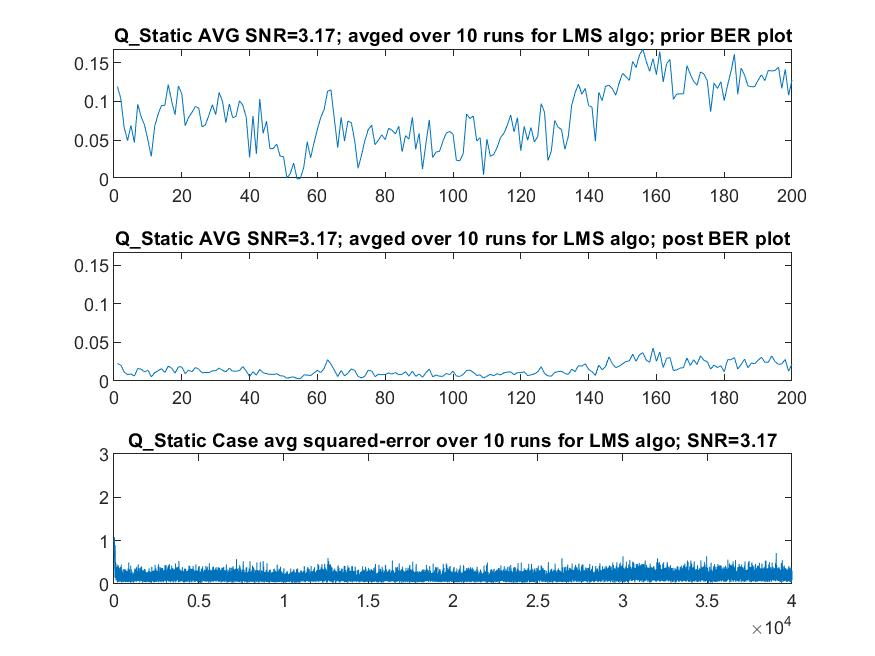
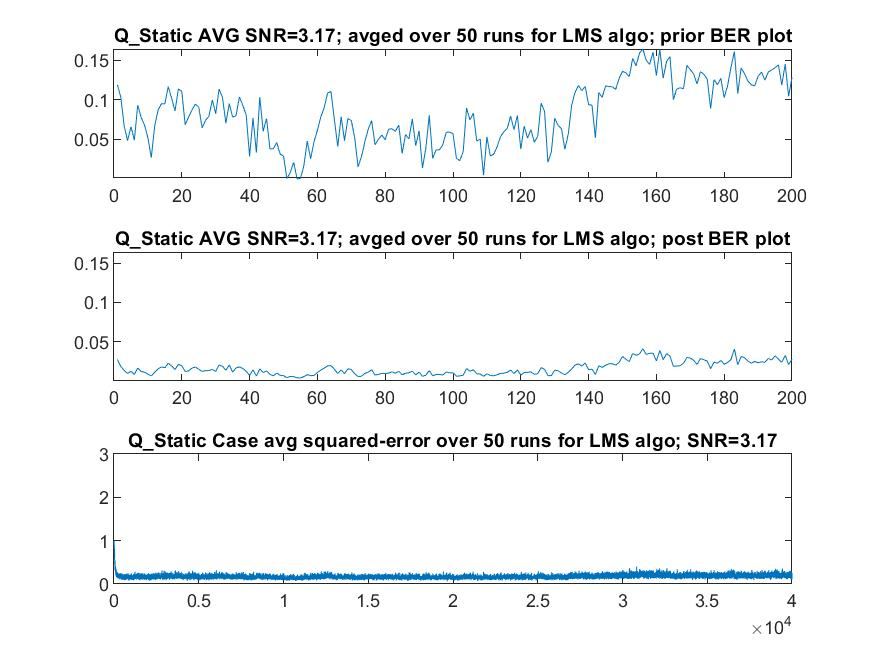
New branch for testing different parameter configs

diff --git a/PARAMS_NLMS_DFE.m b/PARAMS_NLMS_DFE.m
@@ -1,19 +1,19 @@
 function Params = PARAMS_NLMS_DFE(Params)
     % For Static case
     Params.Static.NLMS_DFE.Lfff = 20;
-    Params.Static.NLMS_DFE.Lfbf = 10;
+    Params.Static.NLMS_DFE.Lfbf = 20;
     Params.Static.NLMS_DFE.alpha = 0.1; 
     Params.Static.NLMS_DFE.epsilon = 1e-2;
     
     % For Q_Static case
     Params.Q_Static.NLMS_DFE.Lfff = 15;
-    Params.Q_Static.NLMS_DFE.Lfbf = 5;
+    Params.Q_Static.NLMS_DFE.Lfbf = 10;
     Params.Q_Static.NLMS_DFE.alpha = 0.02;
     Params.Q_Static.NLMS_DFE.epsilon = 2e-2;
     
     % For T_Varying case
-    Params.T_Varying.NLMS_DFE.Lfff = 10;
-    Params.T_Varying.NLMS_DFE.Lfbf = 5;
+    Params.T_Varying.NLMS_DFE.Lfff = 15;
+    Params.T_Varying.NLMS_DFE.Lfbf = 10;
     Params.T_Varying.NLMS_DFE.alpha = 0.01;
     Params.T_Varying.NLMS_DFE.epsilon = 1e-2;
 end

diff --git a/PARAMS_LMS_DFE.m b/PARAMS_LMS_DFE.m
@@ -1,16 +1,16 @@
 function Params = PARAMS_LMS_DFE(Params)
     % For Static case
     Params.Static.LMS_DFE.Lfff = 20;
-    Params.Static.LMS_DFE.Lfbf = 10;
+    Params.Static.LMS_DFE.Lfbf = 20;
     Params.Static.LMS_DFE.alpha = 0.01; 
     
     % For Q_Static case
     Params.Q_Static.LMS_DFE.Lfff = 15;
-    Params.Q_Static.LMS_DFE.Lfbf = 5;
+    Params.Q_Static.LMS_DFE.Lfbf = 10;
     Params.Q_Static.LMS_DFE.alpha = 0.01; 
     
     % For T_Varying case
-    Params.T_Varying.LMS_DFE.Lfff = 10;
-    Params.T_Varying.LMS_DFE.Lfbf = 5;
+    Params.T_Varying.LMS_DFE.Lfff = 15;
+    Params.T_Varying.LMS_DFE.Lfbf = 10;
     Params.T_Varying.LMS_DFE.alpha = 0.01; 
 end

diff --git a/test_bench.m b/test_bench.m
@@ -42,7 +42,7 @@ TestCase_Params.T_Varying.Algo = 'RLS-DFE';
 Here is for test setup configuration.
 %}
 TestCase_Params = Init_AdaptiveAlgoParams(TestCase_Params);
-TestCase_Params.Test_Runs = 10;
+TestCase_Params.Test_Runs = 50;
 TestCase_Params.plot_bounds = [0, 3.0];
 
 %{

diff --git a/PARAMS_LMS.m b/PARAMS_LMS.m
@@ -8,6 +8,6 @@ function Params = PARAMS_LMS(Params)
     Params.Q_Static.LMS.alpha = 0.01;
     
     % For T_Varying case
-    Params.T_Varying.LMS.L = 10;
+    Params.T_Varying.LMS.L = 15;
     Params.T_Varying.LMS.alpha = 0.01;
 end
